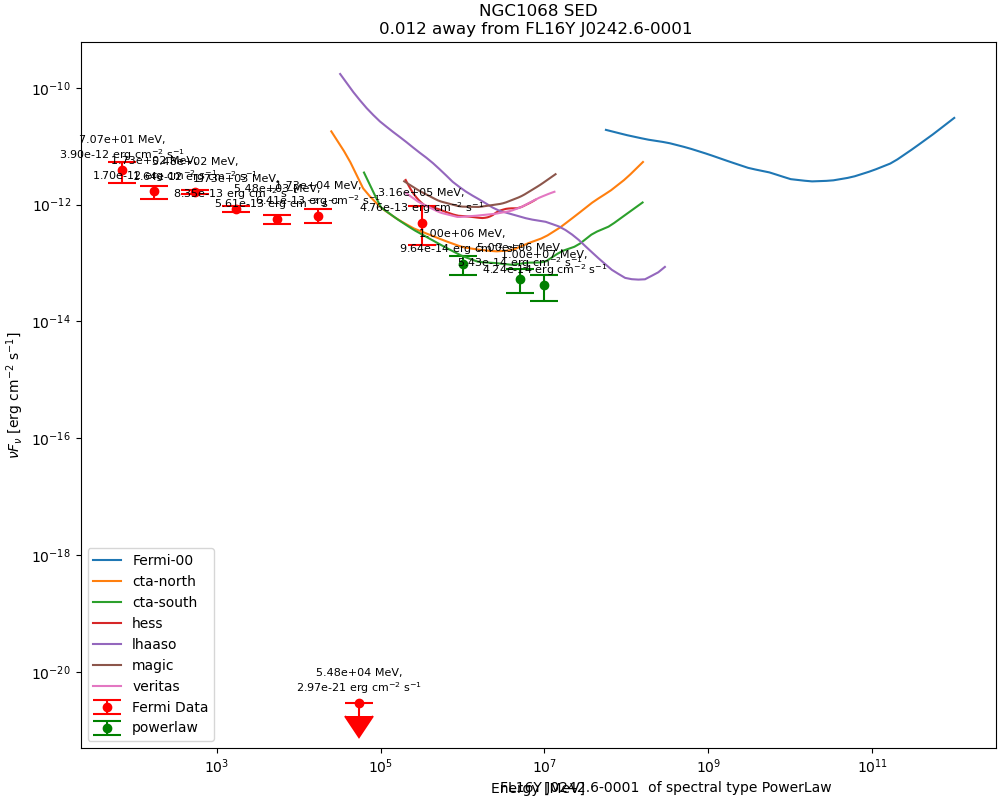
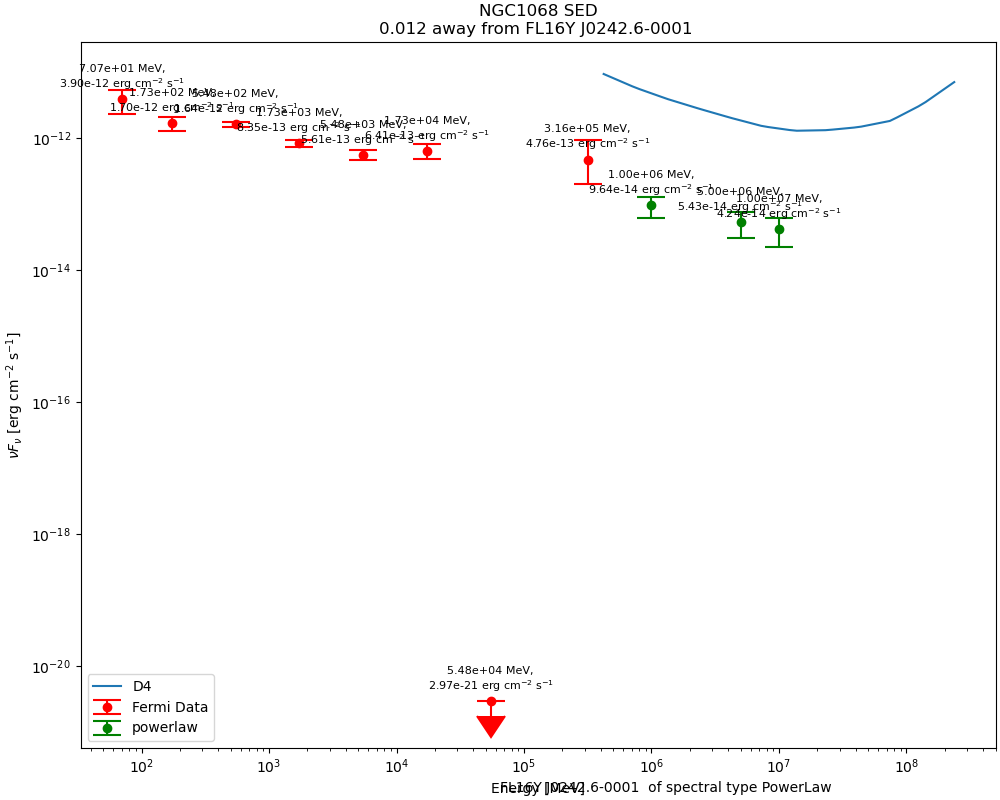
t

diff --git a/fermi/sourcesfermi.py b/fermi/sourcesfermi.py
@@ -26,13 +26,17 @@ sourceName = df[:,0]
 RA = df[:,1]
 Dec = df[:,2]
 
-
-filelist = ['Fermi-00','cta-north','cta-south','hess','lhaaso','magic','veritas']
+X = np.arange(2.625,5.5,0.25)
+senseE = []
+for x in X:
+  senseE += [np.power(10,x-3)]
+#filelist = ['Fermi-00','cta-north','cta-south','hess','lhaaso','magic','veritas']
+filelist = ['D4']
 
 for name in filelist:
-    senseE, senseS = np.loadtxt(f"{name}.txt",unpack=True)
+    senseS = np.loadtxt(f"{name}.txt",unpack=True)
     # TeV,  erg cm^-2 s^-1
-    logE = np.log10(senseE*1e6)  # TeV --> MeV
+    logE = np.log10(np.array(senseE)*1e6)  # TeV --> MeV
     logS = np.log10(senseS)
 
     interpfunc = interp1d(logE,logS,kind='linear')
